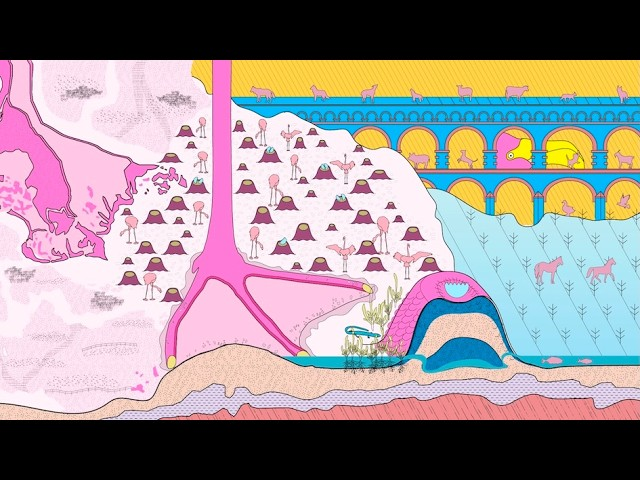
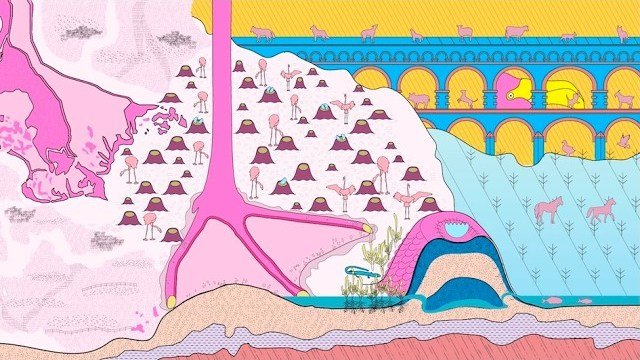
Add Vivre en (Flamant) Rose; crop letterbox off flamingo tiles; new Talkbox and Sowing Worlds covers

diff --git a/_notes/changelog.md b/_notes/changelog.md
@@ -215,3 +215,9 @@ Rania's three attachments were in `update_rania/`. The originals stay there, and
 - **Deem Journal Issue 5, "Worlding Anew"** (her interview with Leen Katrib, pp. 28–39): `DE_2024_Worlding Anew_Deem 5.pdf`, added to ESSAYS after Perspecta #56.
 - **`Ghosn+Jazairy_2024_Perspecta56.pdf` is not the Climate Inheritance article (Perspecta #54).** It's "Elephant in the Room and Other Fables" (Perspecta 56, pp. 120–133), which ESSAYS already links. The linked copy has the issue cover in front, and this one is lighter (1.3 MB, as spreads). Nothing was changed, and Climate Inheritance (Perspecta #54) stays hidden.
 - [ ] Ask Rania for the Perspecta #54 Climate Inheritance PDF, and whether to swap the Perspecta 56 copy for the lighter one.
+
+### ANIMATE French version, two EXHIBIT covers (same day)
+
+- **ANIMATE: "Vivre en (Flamant) Rose"** is a new item right after Living as Flamingo (`_animations/vivre-en-flamant-rose.md`), with the French video only and the French blurb from the old page. The title is spelled as on YouTube ("Flamant", not "Flamand"). Living as Flamingo still offers both versions.
+- **No black bars on the flamingo tiles:** YouTube only has a letterboxed 640×480 still for both videos, so the thumbnails are cropped to the 640×360 picture.
+- **EXHIBIT covers:** Elephant in the Room Talkbox now opens on image 3, and Sowing Worlds (Tallinn) on image 2. The tiles are new centre crops.

diff --git a/_animations/vivre-en-flamant-rose.md b/_animations/vivre-en-flamant-rose.md
@@ -1,0 +1,14 @@
+---
+title: "Vivre en (Flamant) Rose"
+year: 2026
+# Project Team, one line each
+team: |
+  Rania Ghosn + El Hadi Jazairy
+  Vinciane Despret (narratrice)
+# after the text
+credits: "(c) 2026"
+thumbnail: thumbnail.jpg  # from the YouTube channel
+videos:
+  - youtube: https://youtu.be/mNmUqbqlKTQ
+---
+Vivre en (Flamant) Rose présente le flamant rose comme un emblème indocile de la Camargue. Le projet traverse le delta du Rhône à travers les monticules de nidification, les rizières et marais salants, les infrastructures de conservation, les économies touristiques, les couloirs migratoires, le deuil écologique et la survie.

diff --git a/_exhibitions/elephant-in-the-room-talkbox--palazzo-diedo.md b/_exhibitions/elephant-in-the-room-talkbox--palazzo-diedo.md
@@ -18,15 +18,15 @@ curators: "Nicholas de Monchaux & Ana Miljacki"
 projects:
   - elephant-in-the-room
 images:
+  - file: 03.jpg
+    width: 778
+    height: 567
   - file: 01.jpg
     width: 800
     height: 534
   - file: 02.jpg
     width: 800
     height: 534
-  - file: 03.jpg
-    width: 778
-    height: 567
   - file: 04.jpg
     width: 800
     height: 533

diff --git a/_exhibitions/sowing-worlds--tallinn-architecture-biennale.md b/_exhibitions/sowing-worlds--tallinn-architecture-biennale.md
@@ -20,10 +20,10 @@ credits: "Photos: P. Pattakos"
 projects:
   - sowing-worlds
 images:
-  - file: 01.jpg
+  - file: 02.jpg
     width: 800
     height: 533
-  - file: 02.jpg
+  - file: 01.jpg
     width: 800
     height: 533
 ---
